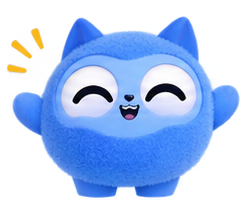
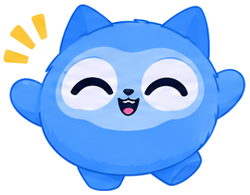
Mascot: flat 2D poses replace the 3D fluffy ones
Azim felt the 3D furry render was what made Home feel off (the only
non-flat thing on a flat screen) and generated a flat 2D version of the
same character himself in ChatGPT (sheet + one hi-res reference).
- The ten poses are cut out of the sheet onto transparency (white
  background flood-filled from the crop edge so the white eyes stay;
  anti-aliased rim un-blended; edge slivers of neighbouring poses dropped).
  Every cut-out checked on a contact sheet over the sky colour.
- mascot-sheet-source.png = the flat sheet; mascot-reference.png = the
  1254 px single for future regenerations; Mascot.tsx sizes follow the new
  aspect ratios.
Known: the sheet gives ~200-250 px per pose (soft on a 3x phone) and
'question' has a faint AI squiggle by its hand; both go away when the
poses are regenerated one per image.

diff --git a/apps/mobile/components/ui/Mascot.tsx b/apps/mobile/components/ui/Mascot.tsx
@@ -1,19 +1,21 @@
 import { Image, type ImageStyle } from "expo-image";
 import type { StyleProp } from "react-native";
 
-// Ten still poses cropped from Azim's mascot sheet (assets/mascot-sheet-source.png) with the
-// exact crop boxes the Figma `Mascot` component uses. Sizes = the Figma component boxes at 1×.
+// Ten still poses of the flat 2D mascot (Azim's own ChatGPT generation, 18 Oct; replaced the 3D
+// fluffy one), cut out of assets/mascot-sheet-source.png onto transparency. Sizes = each image's
+// aspect ratio at 120 px tall. To upgrade a pose, drop a sharper transparent PNG with the same
+// file name into assets/mascot/ and update its width here. Reference look: assets/mascot-reference.png.
 const POSES = {
-  wave: { source: require("../../assets/mascot/wave.png"), width: 129, height: 120 },
-  happy: { source: require("../../assets/mascot/happy.png"), width: 144, height: 120 },
-  question: { source: require("../../assets/mascot/question.png"), width: 143, height: 120 },
-  idea: { source: require("../../assets/mascot/idea.png"), width: 143, height: 120 },
-  checklist: { source: require("../../assets/mascot/checklist.png"), width: 131, height: 120 },
-  celebrate: { source: require("../../assets/mascot/celebrate.png"), width: 152, height: 120 },
-  graduate: { source: require("../../assets/mascot/graduate.png"), width: 121, height: 120 },
-  laptop: { source: require("../../assets/mascot/laptop.png"), width: 141, height: 120 },
-  reading: { source: require("../../assets/mascot/reading.png"), width: 130, height: 120 },
-  sleep: { source: require("../../assets/mascot/sleep.png"), width: 142, height: 120 },
+  wave: { source: require("../../assets/mascot/wave.png"), width: 140, height: 120 },
+  happy: { source: require("../../assets/mascot/happy.png"), width: 154, height: 120 },
+  question: { source: require("../../assets/mascot/question.png"), width: 135, height: 120 },
+  idea: { source: require("../../assets/mascot/idea.png"), width: 149, height: 120 },
+  checklist: { source: require("../../assets/mascot/checklist.png"), width: 142, height: 120 },
+  celebrate: { source: require("../../assets/mascot/celebrate.png"), width: 147, height: 120 },
+  graduate: { source: require("../../assets/mascot/graduate.png"), width: 138, height: 120 },
+  laptop: { source: require("../../assets/mascot/laptop.png"), width: 147, height: 120 },
+  reading: { source: require("../../assets/mascot/reading.png"), width: 135, height: 120 },
+  sleep: { source: require("../../assets/mascot/sleep.png"), width: 159, height: 120 },
 } as const;
 
 export type MascotPose = keyof typeof POSES;
